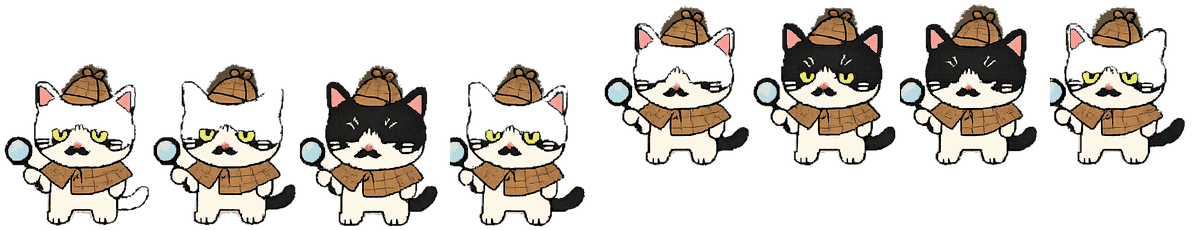
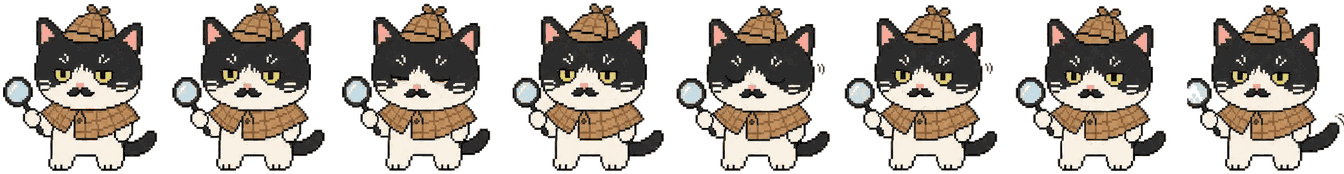
탐정 스프라이트 교체(정렬 개선) + 테스트용 다음 손님 버튼
- assets/detective-cat.png: 새 8프레임 스트립(투명 배경, 340×390)으로 교체.
  공통 바운딩박스로 크롭·정렬해 프레임 흔들림 제거, 비율 168:174에 맞춰
  CSS 표시 크기(156×162 / 결과 92×95) 조정.
- 테스트용 '다음 손님' 버튼 추가: 손님 서빙 중 우하단에 표시,
  누르면 현재 손님을 건너뛰고 바로 다음 손님으로 (타이머·센서 정리 포함).
  손님 서빙 화면에서만 보이고 하루 인트로/정산/상점에서는 숨김.

Claude-Session: https://claude.ai/code/session_01DwsaRof2dYLMWRHRjyJxnV

diff --git a/css/style.css b/css/style.css
@@ -161,22 +161,32 @@ h2.tight, h1.tight { margin: 0; }
   filter: drop-shadow(0 6px 14px rgba(0,0,0,.45));
 }
 .sprite-cat.detective {
-  width: 124px; height: 190px;
+  width: 156px; height: 162px;      /* 프레임 비율 168:174 ≈ 0.966 */
   background-image: url(../assets/detective-cat.png);
-  background-size: 992px 190px;   /* 8 × 124 */
+  background-size: 1248px 162px;    /* 8 × 156 */
   animation: detPlay 1.1s steps(8) infinite, catBob 2.6s ease-in-out infinite;
 }
 .sprite-cat.detective.sm {
-  width: 76px; height: 116px;
-  background-size: 608px 116px;    /* 8 × 76 */
+  width: 92px; height: 95px;
+  background-size: 736px 95px;      /* 8 × 92 */
   animation: detPlaySm 1.1s steps(8) infinite, catBob 2.6s ease-in-out infinite;
 }
-@keyframes detPlay   { from { background-position: 0 0; } to { background-position: -992px 0; } }
-@keyframes detPlaySm { from { background-position: 0 0; } to { background-position: -608px 0; } }
+@keyframes detPlay   { from { background-position: 0 0; } to { background-position: -1248px 0; } }
+@keyframes detPlaySm { from { background-position: 0 0; } to { background-position: -736px 0; } }
 @keyframes catBob    { 0%,100% { transform: translateY(0); } 50% { transform: translateY(-6px); } }
 @media (prefers-reduced-motion: reduce) {
   .sprite-cat { animation: none !important; background-position: 0 0 !important; }
 }
+
+/* ---- 테스트용 다음 손님 버튼 ---- */
+.skip-btn {
+  position: absolute; right: 12px; bottom: calc(12px + env(safe-area-inset-bottom));
+  z-index: 50; display: none;
+  font-family: var(--font); font-weight: bold; font-size: 12px; color: var(--ink);
+  background: rgba(0, 0, 0, .5); border: 1px dashed var(--panel-brd);
+  border-radius: 999px; padding: 8px 14px; cursor: pointer; backdrop-filter: blur(6px);
+}
+.skip-btn:active { transform: scale(.95); }
 
 /* ---- 재료 그리드 ---- */
 .ingredient-grid { display: grid; grid-template-columns: repeat(3, 1fr); gap: 10px; }

diff --git a/js/game.js b/js/game.js
@@ -57,7 +57,19 @@ window.addEventListener('DOMContentLoaded', () => {
     await Game.sensor.enable();   // 사용자 제스처 안에서 센서 권한 요청
     Game.startDay();
   });
+
+  // 테스트용: 다음 손님으로 건너뛰기
+  document.getElementById('skip-btn').addEventListener('click', () => Game.skipCustomer());
 });
+
+// 현재 손님을 건너뛰고 바로 다음 손님으로 (테스트용)
+Game.skipCustomer = function () {
+  this.finished = true;                 // 진행 중 콜백 무효화
+  this.stopPatience();
+  if (this.sensor) { this.sensor.stop(); this.sensor.onBeat = null; this.sensor.onShake = null; }
+  this.customerIndex++;
+  this.nextCustomer();
+};
 
 /* ------------------------------------------------------------------ */
 /* 하루 / 손님 진행                                                   */

diff --git a/js/ui.js b/js/ui.js
@@ -23,6 +23,12 @@ const UI = {
     if (name === 'title') this.hud.style.display = 'none';
   },
 
+  // 테스트용 다음 손님 버튼 표시/숨김
+  showSkip(on) {
+    const b = document.getElementById('skip-btn');
+    if (b) b.style.display = on ? 'block' : 'none';
+  },
+
   clear() { this.root.innerHTML = ''; },
 
   // 재료·흔들기 화면 상단에 공통으로 쓰는 대기 시간 바 마크업
@@ -50,6 +56,7 @@ const UI = {
    * ================================================================= */
   showDayIntro(day, next) {
     this.renderHUD();
+    this.showSkip(false);
     this.clear();
     const card = el('div', 'screen center fade-in');
     card.innerHTML = `
@@ -67,6 +74,7 @@ const UI = {
    * ================================================================= */
   showOrder(order, n, total) {
     this.renderHUD();
+    this.showSkip(true);
     this.clear();
     const cust = CUSTOMERS[order.customer];
     const s = el('div', 'screen fade-in');
@@ -242,6 +250,7 @@ const UI = {
    * ================================================================= */
   showDayEnd(day, gold, rep, next) {
     this.renderHUD();
+    this.showSkip(false);
     this.clear();
     const s = el('div', 'screen center fade-in');
     s.innerHTML = `
@@ -259,6 +268,7 @@ const UI = {
 
   renderShop() {
     this.renderHUD();
+    this.showSkip(false);
     this.clear();
     const s = el('div', 'screen fade-in');
     s.innerHTML = `

diff --git a/index.html b/index.html
@@ -25,6 +25,9 @@
         <p class="muted small foot">📱 휴대폰을 흔들어 조작해요 · PC는 드래그/Space로 대체</p>
       </div>
     </div>
+
+    <!-- 테스트용: 다음 손님으로 건너뛰기 -->
+    <button id="skip-btn" class="skip-btn" aria-label="다음 손님으로 건너뛰기">⏭ 다음 손님</button>
   </div>
 
   <script src="js/data.js"></script>